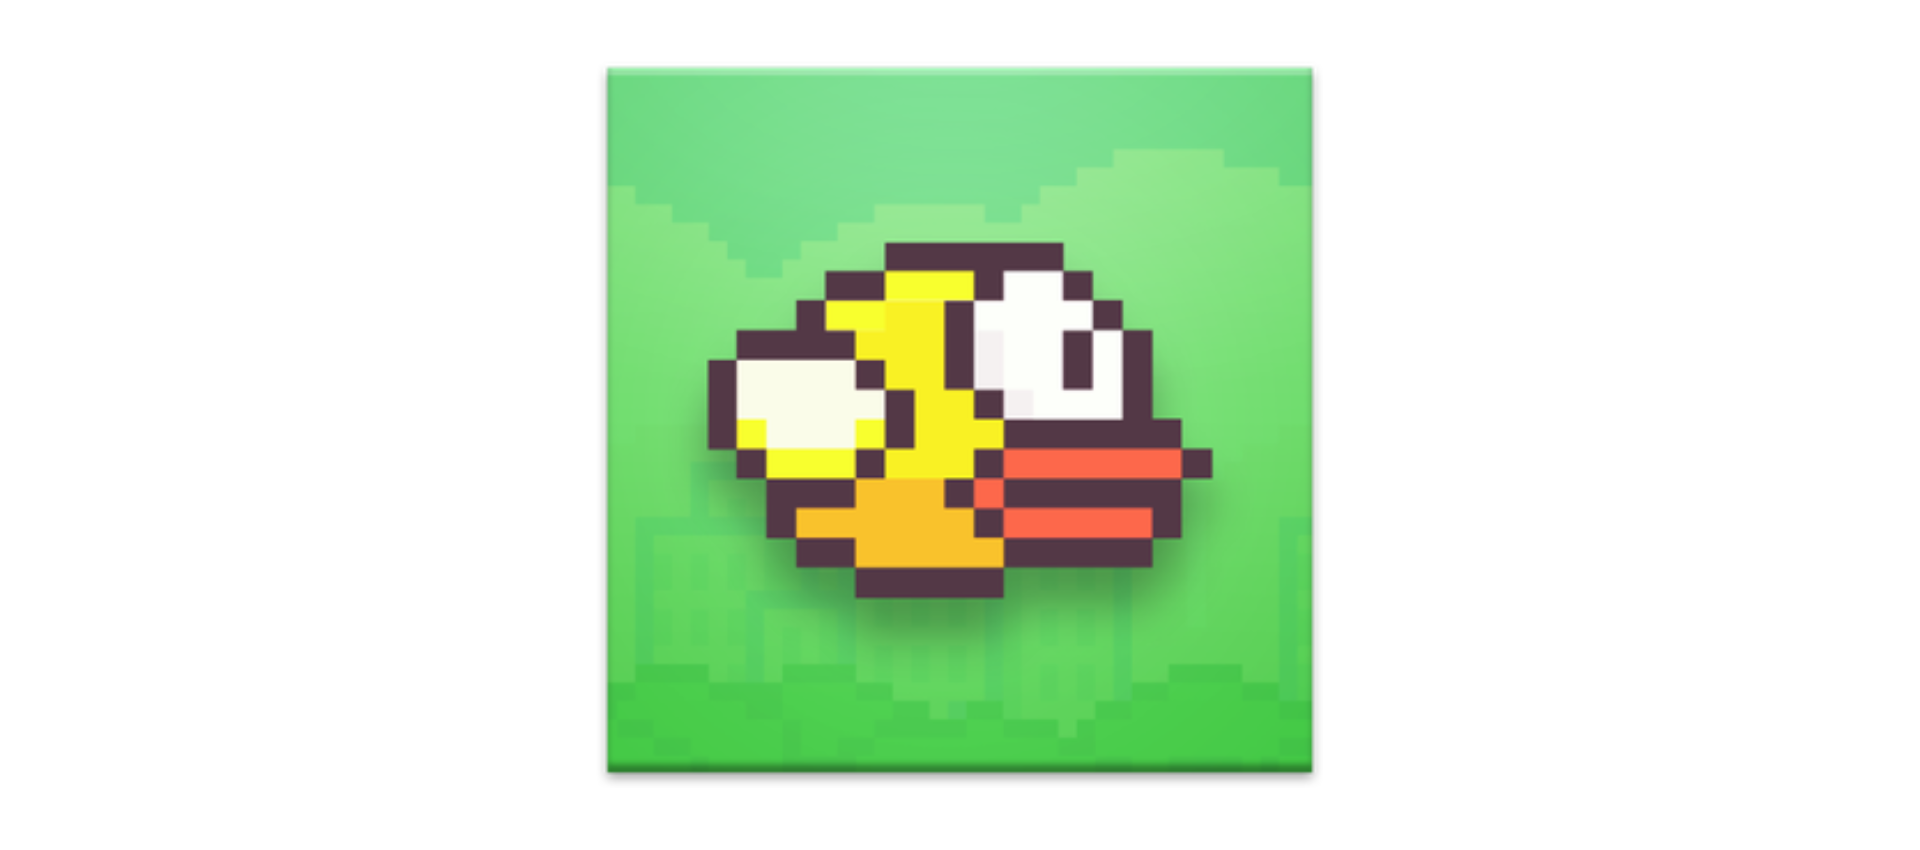
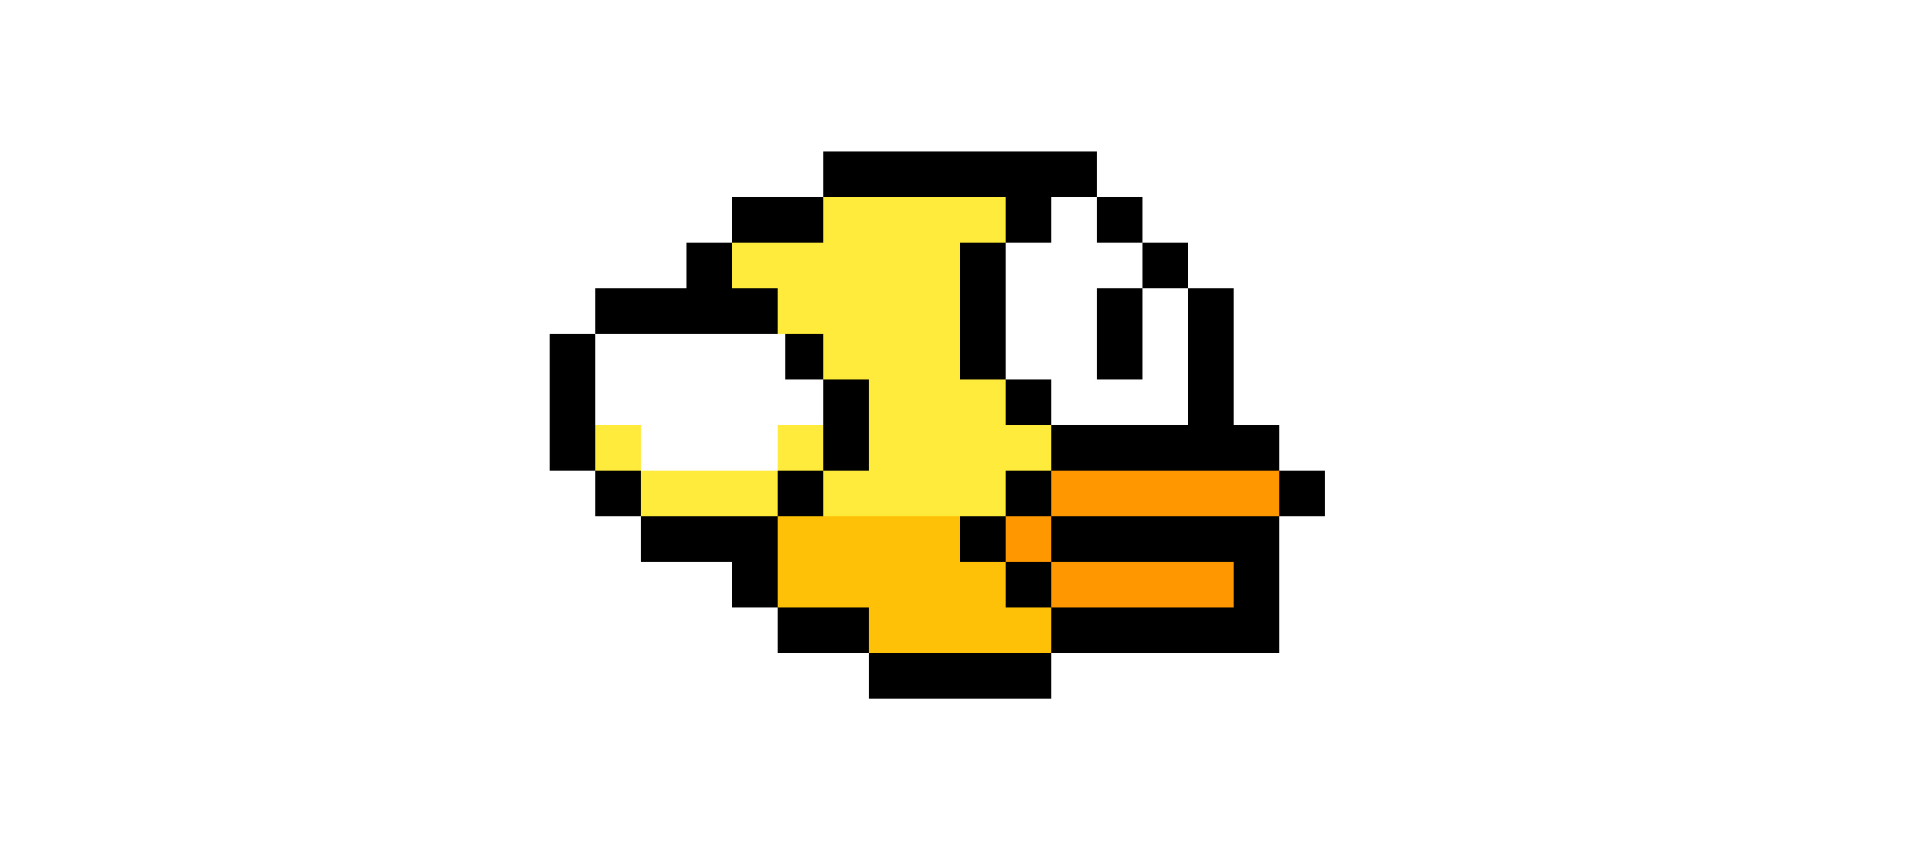
added images

Changed region(s): [[0.2812, 0.0612, 0.6875, 0.9176]]

diff --git a/js/projects.js b/js/projects.js
@@ -3,7 +3,7 @@ document.addEventListener("DOMContentLoaded", function() {
     let projectData = [
         [
             'Cleaning Equipment WA', 
-            '../images/cewa-no-slogan.png', 
+            '../images/cewa-logo.png', 
             'A web application written in Django and deployed on Digital Ocean developed by myself for my family business, Cleaning Equipment WA.', 
             'https://cewa.d-sons.com/'
         ],
@@ -39,19 +39,19 @@ document.addEventListener("DOMContentLoaded", function() {
         ],
         [
             'Flappy Bird Clone', 
-            '../images/flappy-bird.png', 
+            '../images/flappy-bird1.png', 
             'A Flappy Bird clone created in the Harvard CS50 gaming course written in Lua. I did not create all the code but rather added features, these included: pause functionality, rewards depending on score, and randomizing distance between pipe pairs and gap distance.',
             'https://github.com/demstar16/flappy-bird-clone'
         ],
         [
             'Triumph', 
-            '../images/triumph.png', 
+            '../images/triumph1.png', 
             'A terminal political war game developed with Python using the numpy, networkx and matplotx libraries. Bayesian equations are integrated in to make the AI aspects of the game make better decisions.',
             'https://github.com/demstar16/triumph'
         ],
         [
             'ExamGPT', 
-            '../images/examgpt.png', 
+            '../images/examgpt1.png', 
             'A web application designed to assist students and/or teachers with creating questions and answers for those questions. Built by a small team using Flask, HTML, CSS, JavaScript, and openAI.',
             '/'
         ],
